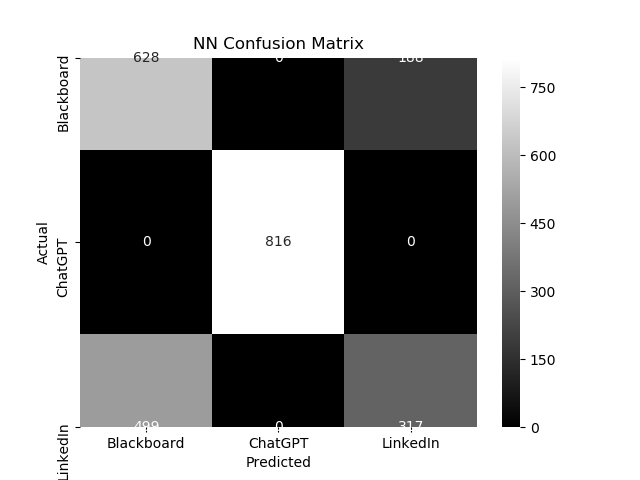
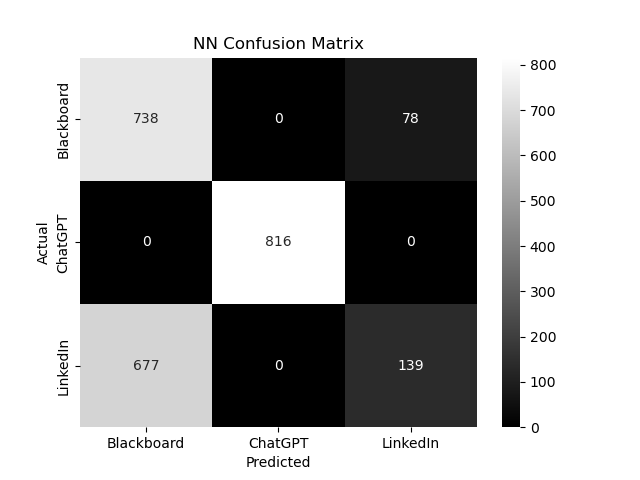
should work now I hope

diff --git a/NN.py b/NN.py
@@ -81,15 +81,24 @@ def grid_search(X, y):
 
 def make_nn(X, y, X_test, y_test):
     # values obtained from gridsearch
+    # mlp = MLPClassifier(
+    #     activation="logistic",
+    #     solver="lbfgs",
+    #     alpha=0.1,
+    #     hidden_layer_sizes=(60),
+    #     random_state=RAND_ST,
+    #     max_iter=MAX_ITER
+    # )
     mlp = MLPClassifier(
-        activation="logistic",
-        solver="lbfgs",
-        alpha=0.1,
-        hidden_layer_sizes=(60),
+        activation="relu",
+        solver="adam",
+        alpha=0.0001,
+        hidden_layer_sizes=(9),
         random_state=RAND_ST,
         max_iter=MAX_ITER
     )
     mlp.fit(X,y)
+    mlp.score(X, y)
     return mlp
 
 
@@ -105,7 +114,7 @@ def run_NN(train_data, test_data):
     print("Starting Neural Network")
 
     X, y, X_test, y_test = pre_process(train_data, test_data)
-    model = grid_search(X, y)
-    # model = make_nn(X, y, X_test, y_test)
+    # model = grid_search(X, y)
+    model = make_nn(X, y, X_test, y_test)
     predict_and_show(model, X_test, y_test)
 
